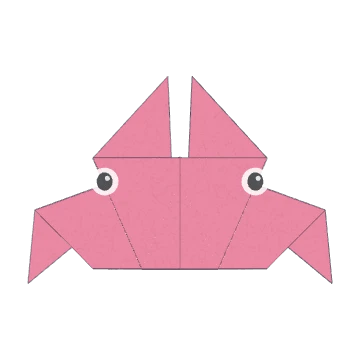
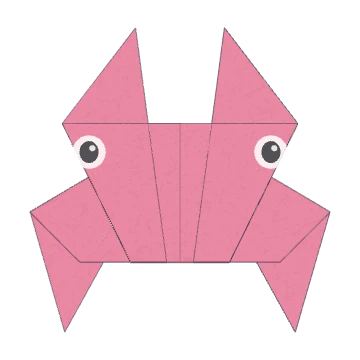
게: 집게 안쪽 뒤집어 접기를 공용 reverseFold(grab+half)로 바꿔 뒤 날개 관통 없앰
- 7·8단계를 swing 'tuck' 의 겹별 동작 둘에서, 학 목·꼬리와 같은 parts/folds.js 의
  reverseFold({ line, grab, spine, filter: 앞 날개, shift: 1 })로 바꿈.
  tuck 은 집게 끝을 뒤로 넘기며 바로 뒤의 뒤 날개(f2)를 뚫었고(지난 회차 분석),
  reverseFold 는 끝이 앞 두 겹 사이로 들어가 관통이 없다(layers.mjs 7·8단계 관통 0).
- shift 기본(0.5)은 색 0.914, 0 은 앞뒤 겹 높이가 같아 색이 섞여 완성 색 0.771 →
  shift 1 에서 원래 색 그대로(완성 IoU 0.947 / 색 0.958)
- 남은 '끝 상태 밀착'은 학과 같은 엔진 높이 표현이며 화면 겹 순서 검사(check) 통과
- 썸네일 다시 만듦, CLAUDE.md 관통 기록 갱신

diff --git a/src/models/crab.js b/src/models/crab.js
@@ -2,6 +2,7 @@
 // 출처: Origami Club "Crab 2" (Fumiaki Shingu) https://en.origami-club.com/easy/sea/crab2/
 // 세모 기본형(물풍선 기본형)을 만들어 거꾸로 놓고, 양쪽 끝을 안으로 뒤집어 접어 집게를 세운 뒤 다리를 접는다.
 import { waterbombBase } from './parts/bases.js';
+import { reverseFold } from './parts/folds.js';
 import { eye } from './parts/draw.js';
 const H = 0.5;
 const flip = { spin: { a: [0, 0, 0], b: [0, 1, 0], angle: 180 } };
@@ -33,20 +34,12 @@ export function makeCrab({ cx, ly, by } = crabParams) {
     {
       text: '왼쪽 끝을 점선에서 안쪽으로 뒤집어 접어 위로 세워요. 집게가 돼요.',
       sim: true,
-      swing: 'tuck', // 도안 화살표대로 모서리가 뒤로 돌아 넘어간다
-      moves: [
-        { line: CL, side: [-0.45, 0.45], filter: (c) => flap(c) && top(c) && c.x < 0, toward: -1, spine: [[0, 0], [-1, 1]], tag: 'clawL' },
-        { line: CL, side: [-0.45, 0.45], filter: (c) => flap(c) && !top(c) && c.x < 0, toward: 1, spine: [[0, 0], [-1, 1]], tag: 'clawL' },
-      ],
+      moves: reverseFold({ line: CL, grab: [-0.45, 0.45], spine: [[0, 0], [-1, 1]], filter: (c) => flap(c) && c.x < 0, tag: 'clawL', shift: 1 }),
     },
     {
       text: '오른쪽 끝도 똑같이 안쪽으로 뒤집어 접어 집게를 세워요.',
       sim: true,
-      swing: 'tuck', // 도안 화살표대로 모서리가 뒤로 돌아 넘어간다
-      moves: [
-        { line: CR, side: [0.45, 0.45], filter: (c) => flap(c) && top(c) && c.x > 0, toward: -1, spine: [[0, 0], [1, 1]], tag: 'clawR' },
-        { line: CR, side: [0.45, 0.45], filter: (c) => flap(c) && !top(c) && c.x > 0, toward: 1, spine: [[0, 0], [1, 1]], tag: 'clawR' },
-      ],
+      moves: reverseFold({ line: CR, grab: [0.45, 0.45], spine: [[0, 0], [1, 1]], filter: (c) => flap(c) && c.x > 0, tag: 'clawR', shift: 1 }),
     },
     { text: '종이를 뒤집어요.', moves: [flip], view: [0, 0.4, 1] },
     { text: '아래 끝을 점선에서 접어 올려요.', moves: [{ line: [[-1, by], [1, by]], side: [0, 0.02], tag: 'belly' }] },

diff --git a/CLAUDE.md b/CLAUDE.md
@@ -117,7 +117,7 @@ GitHub `jinsyu/origami` → Vercel 자동 배포 (main 푸시 = 배포). 빌드 
 - 도안 순서로 다시 만든 작품: 고양이·여우·판다 얼굴(예전 순서로는 완성 모양이 닮지 않았다).
 - 대응 도안 없음(비교 불가): 종이비행기·글라이더(Origami Club plane* 은 모두 직사각형 종이), 컵(Club 은 녹차 컵), 집·지붕 집(Club House 는 사다리꼴 지붕), 오리·두루미·편지 봉투·마스 상자·모자·책갈피·액자·튤립 꽃봉오리.
 - 투구 6·7단계는 해결(챙 말아 올리기는 올린 장만이 아니라 앞장 본체와 함께 — 올린 장만 접으면 접힌 선에서 끊김. 뒷장도 같은 높이에서 뒤로). 남은 과제: 자동차 보닛 턱(지붕 겹만 접고 선을 경첩 끝 (0.5,0)에 맞추면 끊김 없이 IoU 0.951 이지만 도안 7번 점선은 오른쪽 변의 띠 바로 위까지 내려가 원래 해석(바퀴 띠 빼고 모두 접기)을 유지), 학 완성 비교(입체 그림).
-- 겹 관통(scripts/layers.mjs) 남은 것: 끝 프레임(47~48)에서만 나는 쌍은 끼워 넣기(insert)·양옆 뒤로 접기 때 겹 순서가 마지막에 바뀌는 것(판다 6·잉꼬 4·5·케이크 9·개구리 5, 케이크는 sim 으로 차례 접어도 같음). 움직이는 동안 나는 것은 복합 단계(게 7·8 뒤집어 접기 — swing 'tuck'·기본·false 세 방식 모두 앞 날개만 뒤집을 때 뒤 날개 겹과 엇갈려 관통, 엔진 한계. 뚫리는 짝은 집게가 되는 앞 두 겹(clawL, z 0·-0.001)과 바로 뒤 뒤 날개(f2, z -0.002): tuck 은 끝을 뒤로 넘겨 뒤 날개를 지나고, 기본(평면 안 회전)도 23~27 프레임에 뒤 날개 평면을 스친다 — 안쪽 뒤집어 접기는 끝이 앞 두 겹 사이로만 가야 하므로 sim 의 회전 경로를 두 겹 사이로 제한하는 기능이 필요, 개복치 5·귀 큰 강아지 7 펼쳐 누르기, 셔츠·네모 상자·학 21). 인쇄 도면은 이번에 바꾼 23개 작품 모두 오류 없이 단계 그림이 나옴.
+- 겹 관통(scripts/layers.mjs) 남은 것: 끝 프레임(47~48)에서만 나는 쌍은 끼워 넣기(insert)·양옆 뒤로 접기 때 겹 순서가 마지막에 바뀌는 것(판다 6·잉꼬 4·5·케이크 9·개구리 5, 케이크는 sim 으로 차례 접어도 같음). 움직이는 동안 나는 것은 복합 단계(개복치 5·귀 큰 강아지 7 펼쳐 누르기, 셔츠·네모 상자·학 21). 게 7·8단계는 공용 reverseFold({..., shift: 1})(grab+half, 학과 같은 방식)로 바꿔 관통 해결 — swing 'tuck' 은 끝을 뒤로 넘겨 뒤 날개를 뚫었다. shift 0 이면 앞뒤 겹 높이가 같아 색이 섞임(완성 색 0.77) 개복치 5·귀 큰 강아지 7 펼쳐 누르기, 셔츠·네모 상자·학 21). 인쇄 도면은 이번에 바꾼 23개 작품 모두 오류 없이 단계 그림이 나옴.
 - 난이도 점검(2026-10 루프): 단계 수·기법(펼쳐 누르기·뒤집어 접기·계단·꽃잎·넣기)을 뽑아 보니 기준과 어긋난 작품 없음. 4~5단계 초급(컵·종이 모자·올챙이)은 앞장·뒷장을 따로 접어 초급 정의에 맞음. 판다 얼굴은 도안대로 바꾸며 '뒷장만 안으로 넣기'가 생겨 입문 경계 — 사용자 판단 필요.
 - 도안 그림 상자 요령: 가장자리 꼭짓점이 상자에 잘리면 테두리가 끊겨 흰 면이 마스크에서 빠진다(사자). 짙은 회색 면은 선으로 분류돼 마스크가 깨진다(판다 3~5번). 그림이 비스듬하면 `rot`(요트 완성 -7.5°).
 
